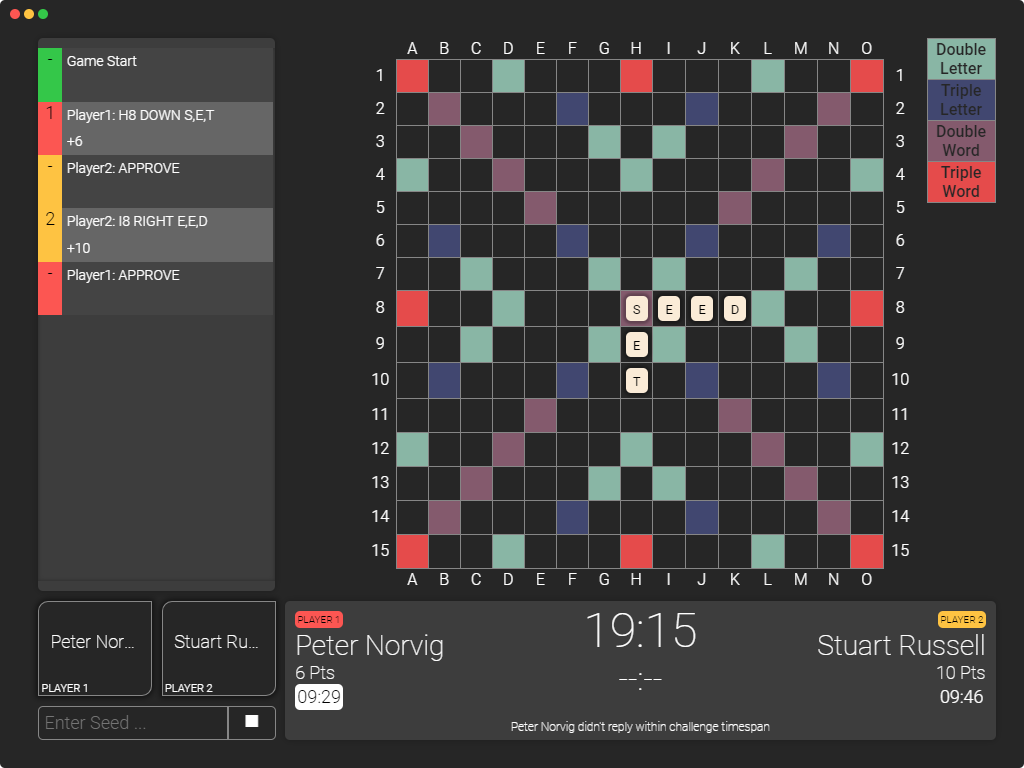
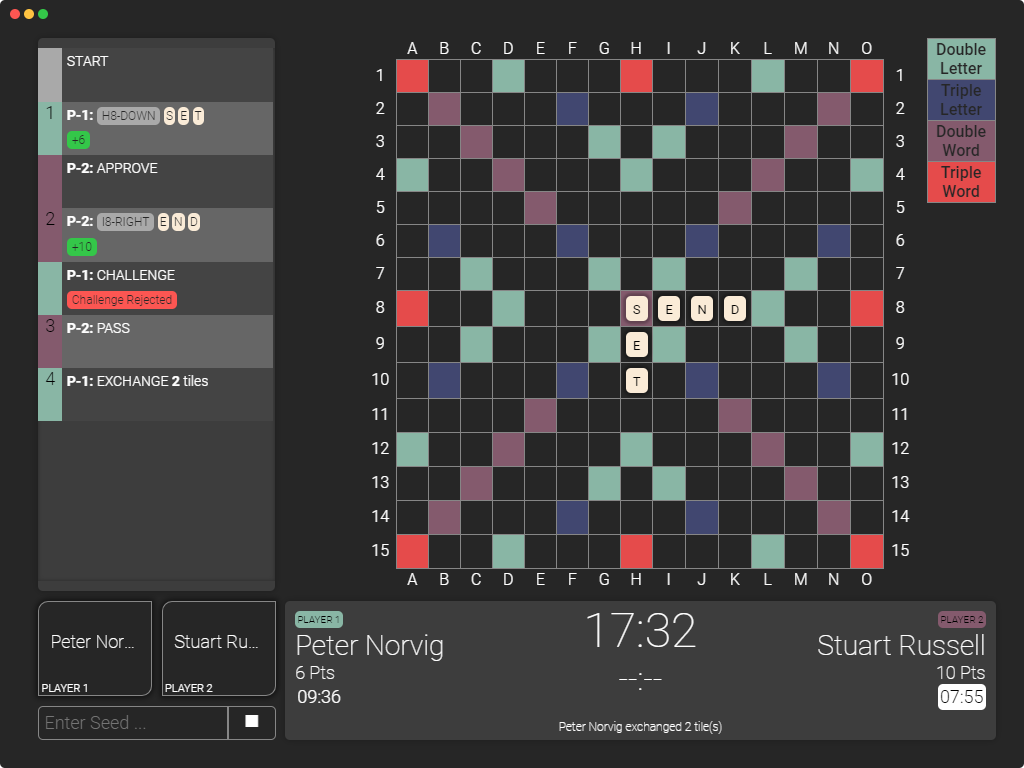
Fixed a bug in client when a challenge is sent just before time ends. Updated the colors for player 1 and 2 to not be confused with rejection. Changed the structure of history table entry to be more readable. Updated Screenshot.

diff --git a/main/server.js b/main/server.js
@@ -252,21 +252,21 @@ class Server {
         case MessageTypes.START:
           return {
             player: 2,
-            turn: '-',
-            text: 'Game Start',
+            turn: '',
+            text: 'START',
             result: '',
           };
         case MessageTypes.END: {
           let resultText;
           if (result.end) {
-            resultText = _.isNull(result.winner) ? 'Draw' : `Player${result.winner + 1} won`;
+            resultText = _.isNull(result.winner) ? '<span class="tag light">Draw</span>' : `<span class="tag player-${result.winner + 1}">P-${result.winner + 1} won</span>`;
           } else {
-            resultText = 'Game Ended Abruptly';
+            resultText = '<span class="tag alert">Game Ended Abruptly<span>';
           }
           return {
             player: 3,
-            turn: '-',
-            text: 'Game End',
+            turn: '',
+            text: 'END',
             result: resultText,
           };
         }
@@ -274,45 +274,47 @@ class Server {
           return {
             player: result.player,
             turn: result.state.turn.toString(),
-            text: `Player${result.player + 1}: PASS`,
+            text: `<b>P-${result.player + 1}:</b> PASS`,
             result: '',
           };
-        case MessageTypes.EXCHANGE:
+        case MessageTypes.EXCHANGE: {
+          const count = _.filter(move.tiles, tile => tile !== 0).length;
           return {
             player: result.player,
             turn: result.state.turn.toString(),
-            text: `Player${result.player + 1}: EXCHANGE ${
-              _.filter(move.tiles, tile => tile !== 0).length
-            } Tile(s)`,
+            text: `<b>P-${result.player + 1}:</b> EXCHANGE <b>${count}</b> tile${count > 1 ? 's' : ''}`,
             result: '',
           };
+        }
         case MessageTypes.PLAY:
           return {
             player: result.player,
             turn: result.state.turn.toString(),
-            text: `Player${result.player + 1}: ${String.fromCharCode(64 + move.col)}${move.row} ${
+            text: `<b>P-${result.player + 1}:</b> <span class="tag light">${String.fromCharCode(64 + move.col)}${move.row}-${
               move.dir === 0 ? 'RIGHT' : 'DOWN'
-            } ${ScrabbleUtils.convertPlayableTilesToString(move.tiles)}`,
-            result: `${result.score > 0 ? '+' : ''}${result.score}`,
+            }</span> ${
+              ScrabbleUtils.convertPlayableTilesToString(move.tiles).split(',').map(tile => `<span class="tag tile-tag ${tile.toLowerCase() === tile ? 'blank' : ''}">${tile}</span>`).join(' ')
+            }`,
+            result: `<span class="tag success">${result.score > 0 ? '+' : ''}${result.score}</span>`,
           };
         case MessageTypes.NO_CHALLENGE:
           return {
             player: result.player,
-            turn: '-',
-            text: `Player${result.player + 1}: APPROVE`,
-            result: result.missed ? 'Challenge Missed' : '',
+            turn: '',
+            text: `<b>P-${result.player + 1}:</b> APPROVE`,
+            result: result.missed ? '<span class="tag alert">Challenge Missed</span>' : '',
           };
         case MessageTypes.CHALLENGE:
           return {
             player: result.player,
-            turn: '-',
-            text: `Player${result.player + 1}: CHALLENGE`,
-            result: result.accepted ? 'Challenge Accepted' : 'Challenge Rejected',
+            turn: '',
+            text: `<b>P-${result.player + 1}:</b> CHALLENGE`,
+            result: result.accepted ? '<span class="tag success">Challenge Accepted</span>' : '<span class="tag failure">Challenge Rejected</span>',
           };
         default:
           return {
-            player: null,
-            turn: '-',
+            player: 3,
+            turn: '',
             text: '',
             result: '',
           };
@@ -579,6 +581,7 @@ class Server {
         });
         this.updateServerUI();
       } else if (event.type === EventTypes.START) {
+        _.times(3).forEach(() => { this.logger.info(_.repeat('*', 100)); });
         if (event.data.useCheckPoint && !_.isNull(this.checkpoint)) {
           // If user pressed pause, start from a checkpoint if any exists
           this.logger.info('Starting game from a Checkpoint');

diff --git a/renderer/components/History.vue b/renderer/components/History.vue
@@ -10,8 +10,8 @@
         <div :class="['turn', {'start':(move.player==2)}, {'turn-1':(move.player==0)}, {'turn-2':(move.player==1)}, {'end':(move.player==3)}]">
           {{ move.turn }}
         </div>
-        <div class="move-text">{{ move.text }}</div>
-        <div class="result">{{ move.result }}</div>
+        <div class="move-text"><span v-html="move.text"/></div>
+        <div class="result"><span v-html="move.result"/></div>
       </div>
     </div>
   </div>
@@ -96,19 +96,19 @@ export default {
 }
 
 .start {
-  background-color: rgb(52, 199, 73);
+  background-color: darkgrey;
 }
 
 .turn-1 {
-  background-color: rgb(252, 86, 82);
+  background-color: $player-1-color;
 }
 
 .turn-2 {
-  background-color: rgb(254, 195, 66);
+  background-color: $player-2-color;
 }
 
 .end {
-  background-color: rgb(52, 91, 199);
+  background-color: darkgrey;
 }
 
 .move-text {
@@ -124,8 +124,56 @@ export default {
   grid-area: result;
   font-family: "Roboto", sans-serif;
   padding: 5px;
-  font-size: 14px;
+  font-size: 12px;
   font-weight: 300;
   color: white;
+}
+
+.tag {
+  padding: 2px 5px;
+  border-radius: 5px;
+  font-family: "Roboto", sans-serif;
+  font-size: 12px;
+  font-weight: 300;
+}
+
+.tag.light {
+  background-color: darkgrey;
+  color: $background-color;
+}
+
+.tag.tile-tag {
+  padding: 2px 2px;
+  background-color: antiquewhite;
+  color: $background-color;
+}
+
+.tag.tile-tag.blank {
+  text-decoration: underline;
+}
+
+.tag.failure {
+  background-color: rgb(252, 86, 82);
+  color: $background-color;
+}
+
+.tag.alert {
+  background-color: rgb(254, 195, 66);
+  color: $background-color;
+}
+
+.tag.success {
+  background-color: rgb(52, 199, 73);
+  color: $background-color;
+}
+
+.tag.player-1 {
+  background-color: $player-1-color;
+  color: $background-color;
+}
+
+.tag.player-2 {
+  background-color: $player-2-color;
+  color: $background-color;
 }
 </style>

diff --git a/examples/client.js b/examples/client.js
@@ -271,7 +271,13 @@ ws.on('message', (data) => {
       state = States.THINKING;
     }
   } else if (state === States.AWAIT_CHALLENGE_RESPONSE) {
-    if (data[0] === MessageTypes.CHALLENGE_ACCEPTED) {
+    if (data[0] === MessageTypes.NO_CHALLENGE) {
+      console.log('Challenge Time Out.');
+      const info = Structs.TypeWithTimeStruct.unpack(data);
+      displayTime(info);
+      displayCurrentGameState();
+      state = States.THINKING;
+    } else if (data[0] === MessageTypes.CHALLENGE_ACCEPTED) {
       console.log('Challenge Accepted.');
       const info = Structs.TypeWithTimeStruct.unpack(data);
       displayTime(info);

diff --git a/renderer/components/ScoreBoard.vue b/renderer/components/ScoreBoard.vue
@@ -108,9 +108,6 @@ export default {
   font-weight: 100;
   overflow: hidden;
   text-overflow: ellipsis;
-  //max-width: 95%;
-  //max-height: 95%;
-  //padding: 2.5%;
 }
 
 .player-turn {
@@ -123,11 +120,11 @@ export default {
 }
 
 .player-turn-1 {
-  background-color: rgb(252, 86, 82);
+  background-color: $player-1-color;
 }
 
 .player-turn-2 {
-  background-color: rgb(254, 195, 66);
+  background-color: $player-2-color;
 }
 
 .player-name {

diff --git a/main/utils/structs.js b/main/utils/structs.js
@@ -1,3 +1,8 @@
+/**
+ * The structs defines how to pack objects to buffers and how to unpack buffers to objects
+ * The main structures, defined in the communication document, were reduced to 9 common structures
+ */
+
 const stfu = require('struct-fu');
 
 const TypeStruct = stfu.struct([

diff --git a/renderer/variables.scss b/renderer/variables.scss
@@ -3,4 +3,7 @@ $box-color: rgb(61, 61, 61);
 $border-color: rgb(134, 134, 134);
 $border-width: 1px;
 
+$player-1-color: #89B6A5;
+$player-2-color: #845A6D;
+
 $font-color: white;
